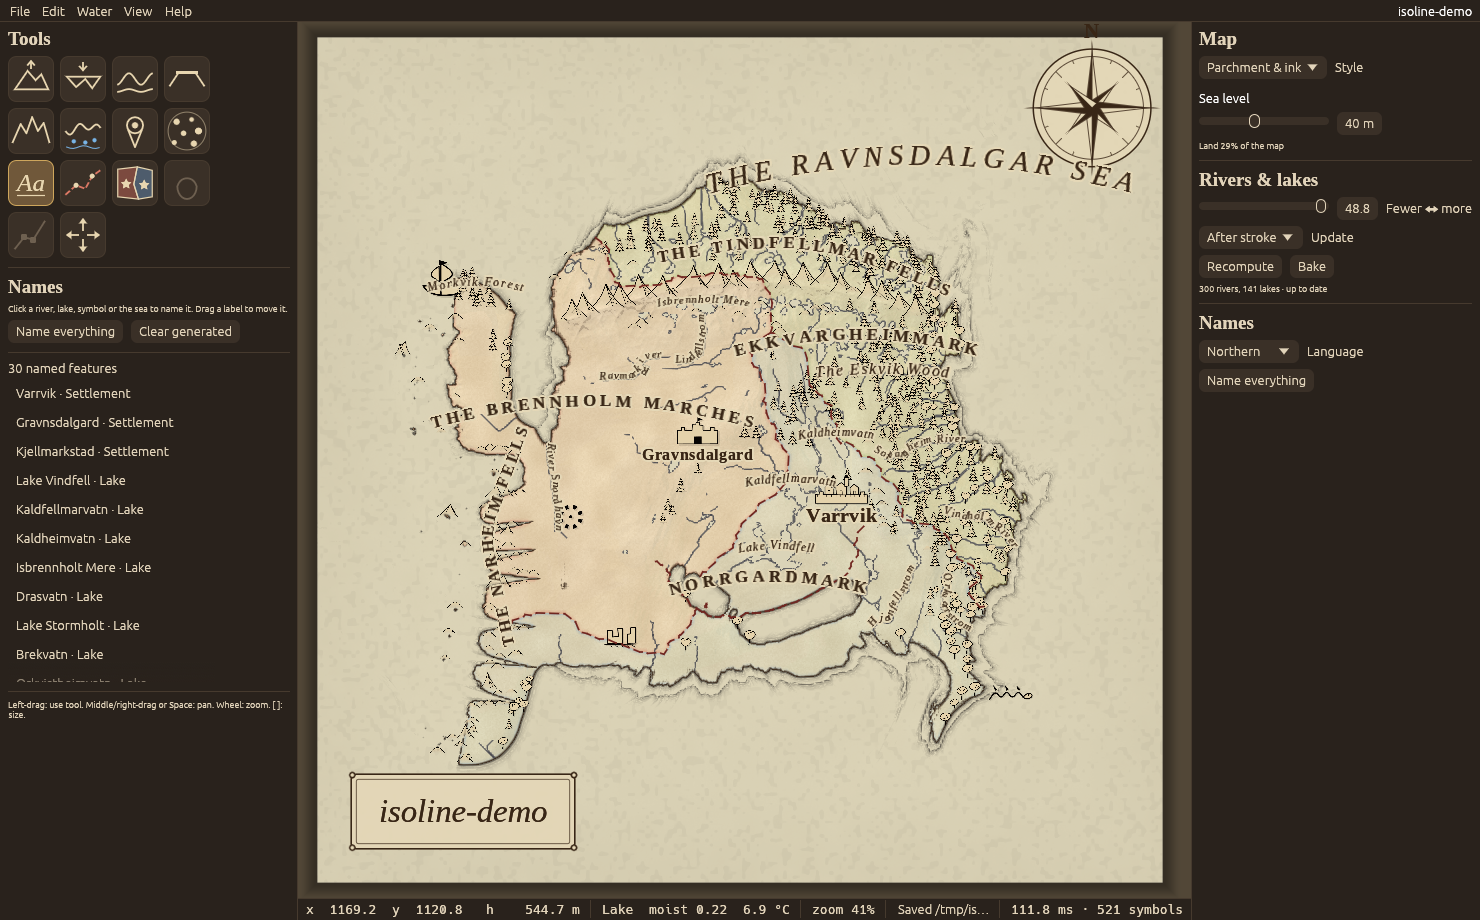
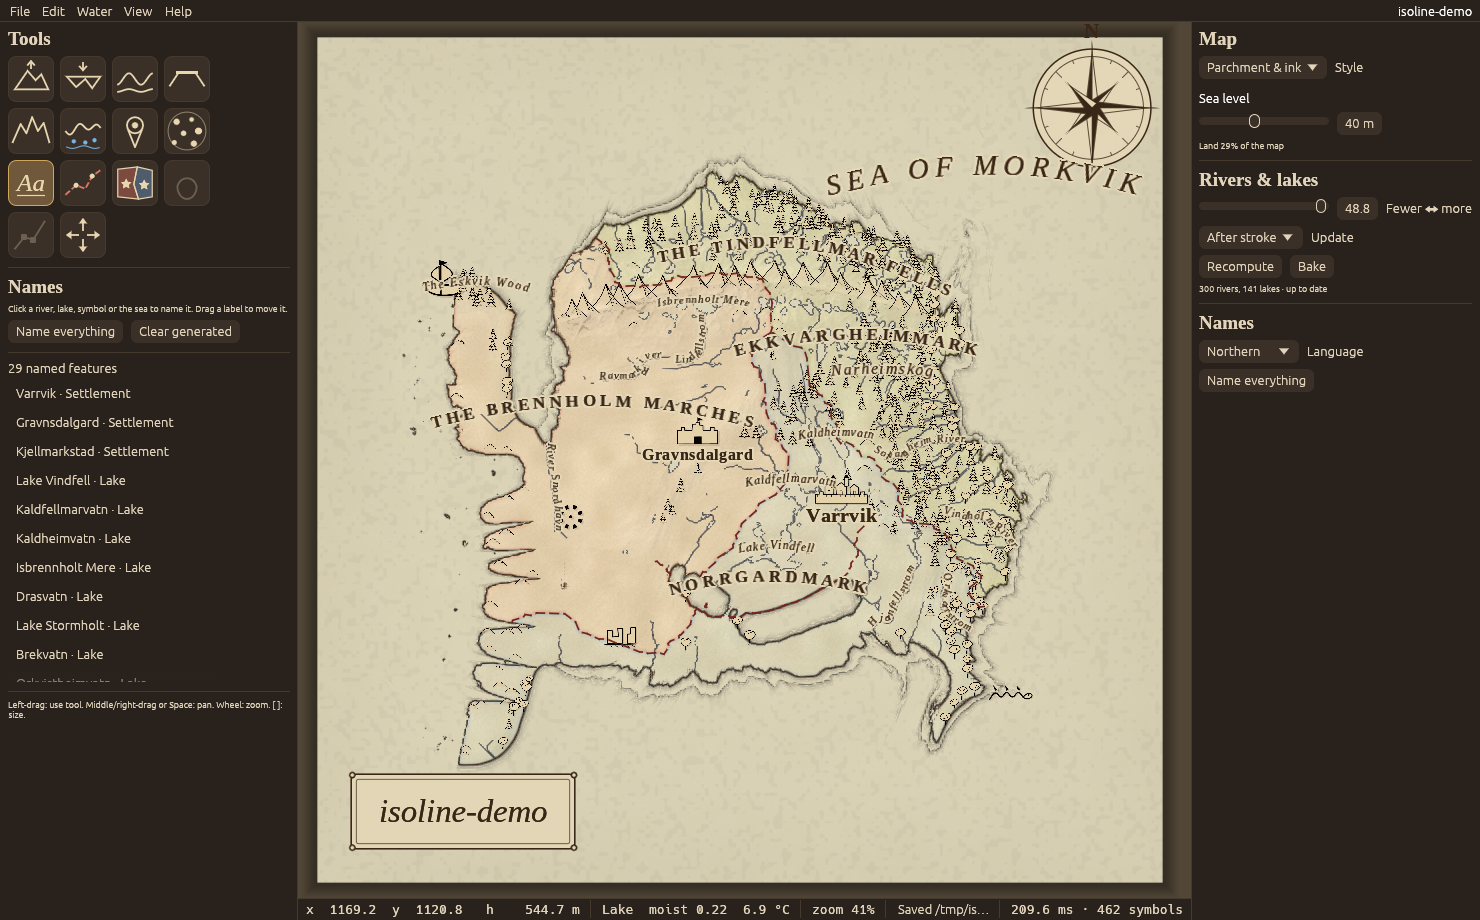
Isoline: keep peaks and hills off lakes and sea
Mountain and hill placement never checked water coverage, so hills stood
on lakes. Candidates and satellite peaks whose footprint reaches water are
now skipped, as trees already were.

Claude-Session: https://claude.ai/code/session_01FAM1Mc8dxhyKqx3XwHZ1Bk

diff --git a/isoline/crates/isoline-core/src/placement.rs b/isoline/crates/isoline-core/src/placement.rs
@@ -362,6 +362,11 @@ pub fn place_mountains(t: &Terrain<'_>, p: &MountainParams, sets: &SymbolSets, t
         if hash.collides(pt, r) {
             continue;
         }
+        // Never stand a peak or hill in a lake or the sea, or so close that
+        // its footprint would cover the shore.
+        if t.is_water(pt) || t.water_distance(pt, size * 0.45) < size * 0.4 {
+            continue;
+        }
         hash.insert(pt, r);
         // Small y jitter breaks up straight rows; x jitter stays on the crest.
         let pos = [(pt[0] + rng.range(-0.1, 0.1) * size).clamp(0.0, w - 1.0), (pt[1] + rng.range(-0.2, 0.2) * size).clamp(0.0, h - 1.0)];
@@ -381,7 +386,7 @@ pub fn place_mountains(t: &Terrain<'_>, p: &MountainParams, sets: &SymbolSets, t
                 }
                 let ssize = size * rng.range(0.5, 0.75);
                 let sr = ssize * 0.24;
-                if hash.collides(q, sr) {
+                if hash.collides(q, sr) || t.is_water(q) || t.water_distance(q, ssize * 0.45) < ssize * 0.4 {
                     continue;
                 }
                 hash.insert(q, sr);
